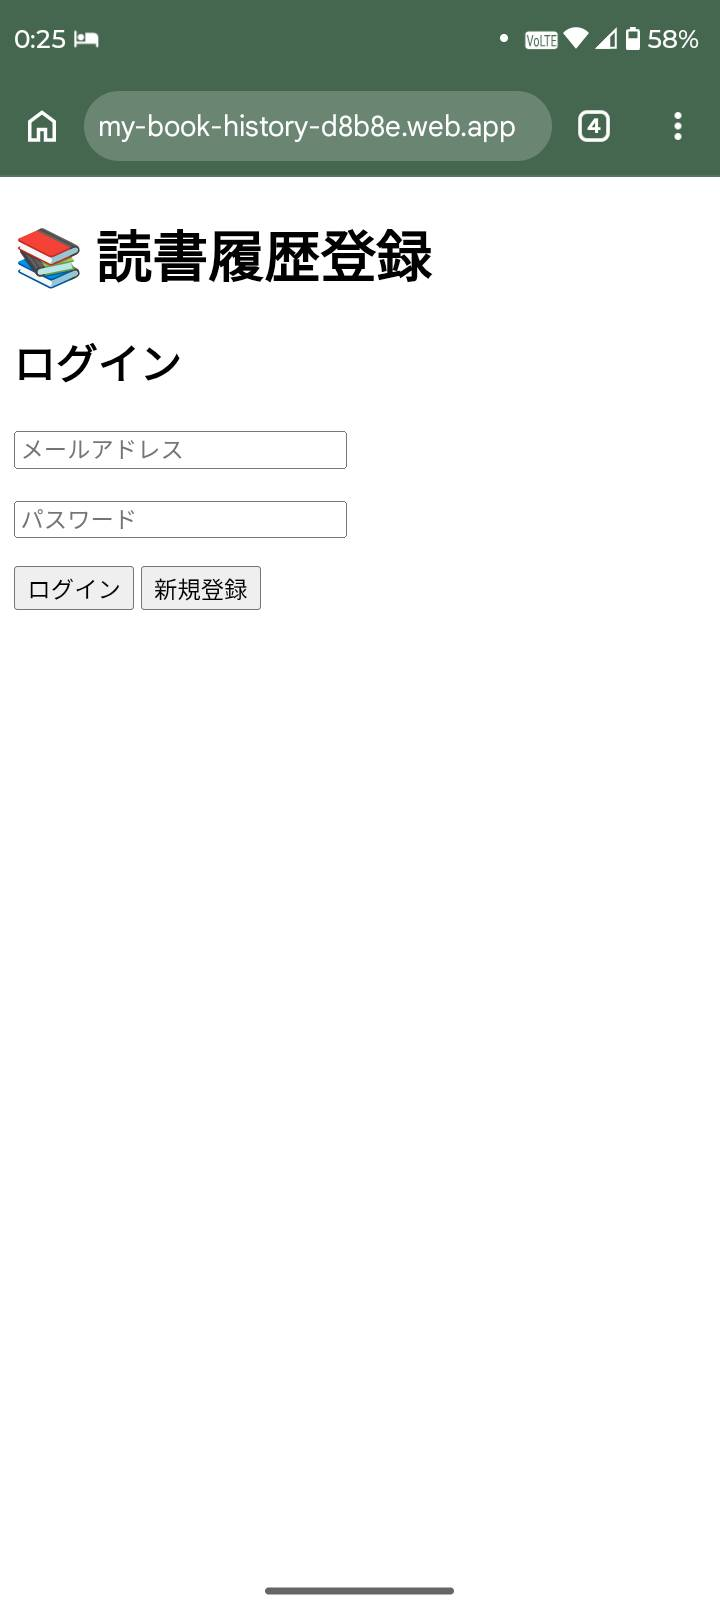
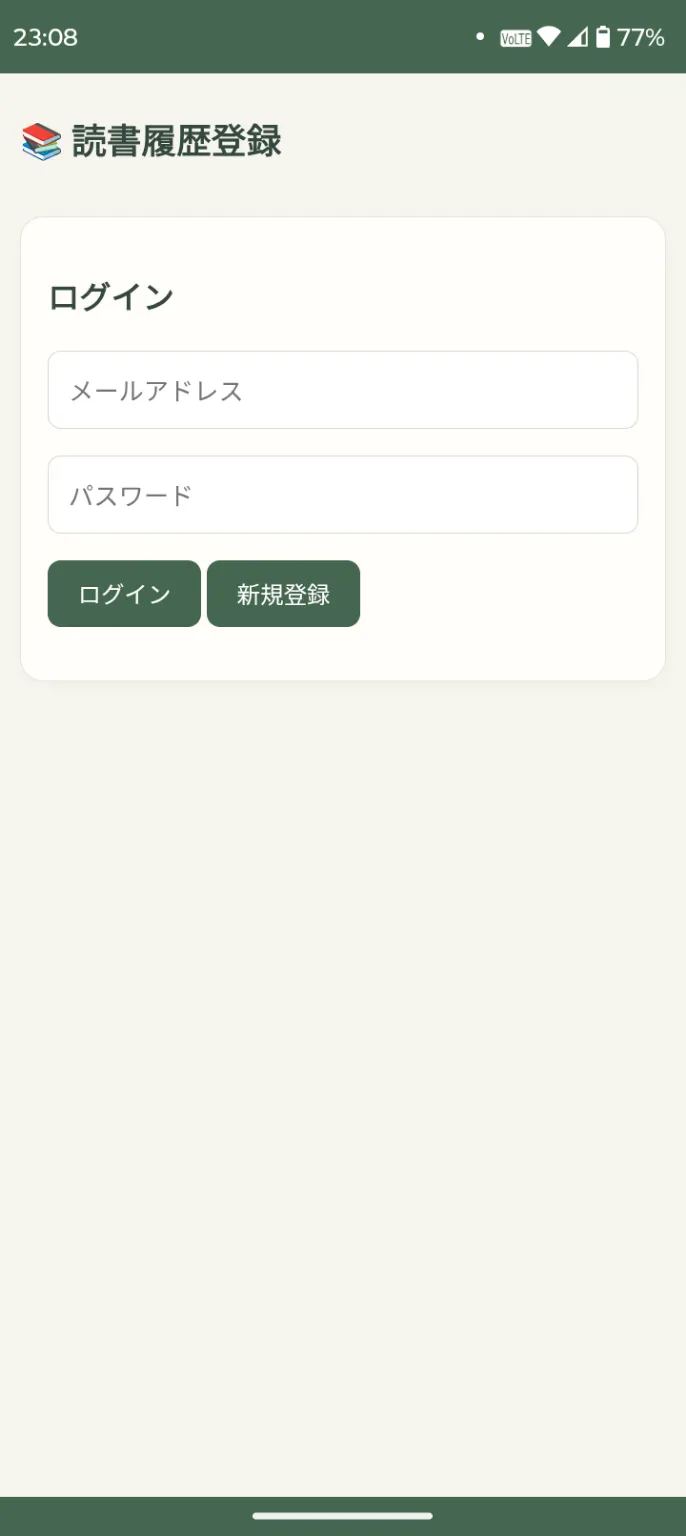
Update README screenshots

Changed region(s): [[0.0, 0.0, 1.0, 0.4062], [0.0, 0.9688, 1.0, 1.0]]

diff --git a/README.md b/README.md
@@ -52,7 +52,10 @@ https://my-book-history-d8b8e.web.app/
 
 ## ■ アプリ画面
 
-### スマートフォン版
+### ログイン画面
 
-![アプリ画面](mobile/screenshots/app-mobile.png)
+![ログイン画面](mobile/screenshots/app-mobile.png)
 
+### 読書履歴一覧画面
+
+![読書履歴一覧画面](mobile/screenshots/app-bookshelf.png)
